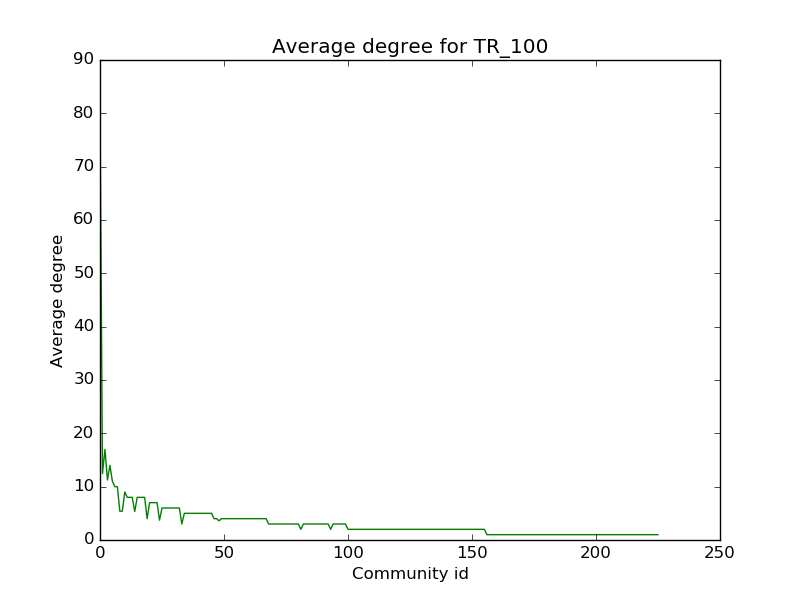
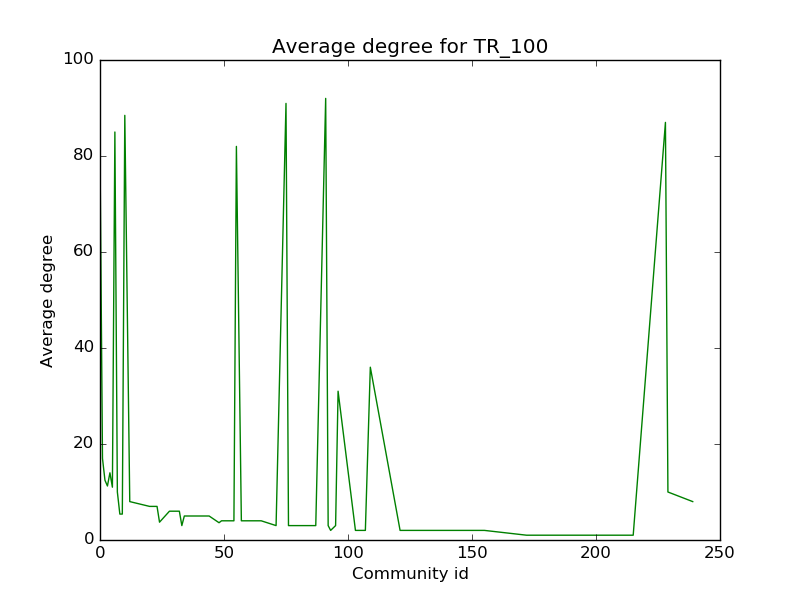
Final version

diff --git a/expandCommunities.py b/expandCommunities.py
@@ -38,29 +38,8 @@ class ArxivAuthorsCommunityExpansion():
 			partitions2nodes[node['partitionId']].append(node.index)
 			nodeIds2clusters[node.index] = node['clusterId']
 
-		# intra partitions augumented edges
-		'''
-		We augument the intra partition edges by uniting the nodes
-		which belong to the same cluster (determined by clustering the articles using the Spherical K-Means algorithm)
-		'''
-		# for partitionId in partitions2nodes:
-			
-		# 	nodesSameClusterPerPartition = list(set([author['nodeId'] for author in authorsInSameCluster]) & set(partitions2nodes[partitionId]))
-
-		# 	if (len(nodesSameClusterPerPartition) > 1):
-		# 		for pair in combinations(nodesSameClusterPerPartition, 2):
-		# 			if ((pair[0], pair[1]) not in edges and (pair[1], pair[0]) not in edges):
-		# 				clusteringEdges.append((helperG.vs[pair[0]]['name'], helperG.vs[pair[1]]['name']))
-
-		# helperG.add_edges(clusteringEdges)
-		# helperG.es[len(edges):]['weight'] = [1] * len(clusteringEdges)
-
-		edges = [edge.tuple for edge in helperG.es]
-
 		# sort the partition dictionary ascending by size
-		partitions2nodes = {k: v for k, v in sorted(partitions2nodes.items(), key = lambda item: len(item[1]))}
-		partitions2nodes = {k: v for k, v in sorted(partitions2nodes.items(), key = lambda item: item[0])}
-
+		partitions2nodes = {k: v for k, v in sorted(partitions2nodes.items(), key = lambda item: len(item[1]), reverse = True)}
 
 		# filter partitions
 		# only partitions which contain all nodes from this cluster
@@ -86,59 +65,51 @@ class ArxivAuthorsCommunityExpansion():
 
 		maxModularity = helperG.modularity(helperG.vs['partitionId'], weights = helperG.es['weight'])
 
-		while (isChange == True):
+		print('Pornesc de la ', maxModularity)
 
-			isChange = False
+		for partitionId1 in list(legitPartitions):
 
-			maxPartition1 = None
-			maxPartition2 = None
+			if (partitionId1 not in legitPartitions):
+				continue
 
-			maxClusteringEdges = []
+			for partitionId2 in list(legitPartitions):
+				
+				if (partitionId1 != partitionId2 and partitionId2 in legitPartitions):
 
-			for partitionId1 in list(legitPartitions):
+					unionEdges = []
+					edges = [edge.tuple for edge in helperG.es]
+					oldUpdatedPartitons = updatedPartitions
 
-				if (partitionId1 not in legitPartitions):
-					continue
+					# merge partitions
+					for nodeId in legitPartitions[partitionId2]:
+						helperG.vs[nodeId]['partitionId'] = partitionId1
+						updatedPartitions[nodeId] = partitionId1
 
-				for partitionId2 in list(legitPartitions):
+					for nodeId1 in legitPartitions[partitionId1]:
+						for nodeId2 in legitPartitions[partitionId2]:
+							if (helperG.vs[nodeId1]['name'], helperG.vs[nodeId2]['name'] not in clusteringEdges and \
+								helperG.vs[nodeId2]['name'], helperG.vs[nodeId1]['name'] not in clusteringEdges):
+									clusteringEdges.append((helperG.vs[nodeId1]['name'], helperG.vs[nodeId2]['name']))
+									unionEdges.append((helperG.vs[nodeId1]['name'], helperG.vs[nodeId2]['name']))
 					
-					if (partitionId1 < partitionId2 and partitionId2 in legitPartitions):
+					helperG.add_edges(unionEdges)
+					helperG.es[len(edges):]['weight'] = [1] * len(unionEdges)
 
-						# merge partitions
-						for nodeId in legitPartitions[partitionId2]:
-							helperG.vs[nodeId]['partitionId'] = partitionId1
+					newModularity = helperG.modularity(helperG.vs['partitionId'], weights = helperG.es['weight'])
 
-						nodeId1 = legitPartitions[partitionId1][randint(0, len(legitPartitions[partitionId1]) - 1)]
-						nodeId2 = legitPartitions[partitionId2][randint(0, len(legitPartitions[partitionId2]) - 1)]
-
-						helperG.add_edge(helperG.vs[nodeId1]['name'], helperG.vs[nodeId2]['name'], weight = 1)
-
-						newModularity = helperG.modularity(helperG.vs['partitionId'], weights = helperG.es['weight'])
-
-						if (newModularity > maxModularity):
-							maxModularity = newModularity
-							maxClusteringEdges = [(helperG.vs[nodeId1]['name'], helperG.vs[nodeId2]['name'])]
-							maxPartition1 = partitionId1
-							maxPartition2 = partitionId2
-
-						helperG.delete_edges([(helperG.vs[nodeId1]['name'], helperG.vs[nodeId2]['name'])])
-						
+					if (newModularity >= maxModularity):
+						# print('Unesc ', len(legitPartitions[partitionId1]), ' cu ', len(legitPartitions[partitionId2]))
+						# print('NEW MODULARITY', newModularity)
+						maxModularity = newModularity
+						legitPartitions[partitionId1] += legitPartitions[partitionId2]
+						del legitPartitions[partitionId2]
+					else:
+						helperG.delete_edges(unionEdges)
+						clusteringEdges = list(set(clusteringEdges) - set(unionEdges))
 						# UNmerge partitions
 						for nodeId in legitPartitions[partitionId2]:
 							helperG.vs[nodeId]['partitionId'] = partitionId2
-
-			if (maxPartition1 != None and maxPartition2 != None):
-				print('MAX MOD = ', maxModularity)
-				isChange = True
-				clusteringEdges += maxClusteringEdges
-				for edge in maxClusteringEdges:
-					helperG.add_edge(edge[0], edge[1], weight = 1)
-				for nodeId in legitPartitions[maxPartition2]:
-					helperG.vs[nodeId]['partitionId'] = partitionId1
-					updatedPartitions[nodeId] = maxPartition1
-				legitPartitions[maxPartition1] += legitPartitions[maxPartition2]
-				del legitPartitions[maxPartition2]
-
+							updatedPartitions[nodeId] = partitionId2
 
 		# print('CLUSTER ID ', clusterId, updatedPartitions)
 
@@ -232,9 +203,9 @@ class ArxivAuthorsCommunityExpansion():
 
 		self.partition = VertexClustering(self.g, self.g.vs['partitionId'])
 
-		plot(self.g)
+		# plot(self.g)
 
-		plot(self.partition)
+		# plot(self.partition)
 
 	def evaluateGraph(self):
 
@@ -246,8 +217,12 @@ class ArxivAuthorsCommunityExpansion():
 		evaluationLib.computeConductance()
 				
 
-print('100 per batch')
+# print('100 per batch')
+# arxivAuthorsEvaluationTE_100 = ArxivAuthorsCommunityExpansion('TE_100', 'ArxivCommunityDetectionDatasets')
+# arxivAuthorsEvaluationTE_100.buildGraph()
+# arxivAuthorsEvaluationTE_100.evaluateGraph()
 
-arxivAuthorsEvaluationTE_100 = ArxivAuthorsCommunityExpansion('TE_100', 'ArxivCommunityDetectionDatasets')
+print('2500 per batch RANDOM')
+arxivAuthorsEvaluationTE_100 = ArxivAuthorsCommunityExpansion('TR_500', 'ArxivCommunityDetectionDatasets')
 arxivAuthorsEvaluationTE_100.buildGraph()
 arxivAuthorsEvaluationTE_100.evaluateGraph()

diff --git a/clustering.py b/clustering.py
@@ -114,7 +114,7 @@ class ArxivAuthorsClustering:
 		skm = spherical_kmeans.SphericalKMeans(n_clusters=5, init='k-means++', n_init=20)
 		skmLabels = skm.fit(X).labels_.tolist()
 
-		# self.writeClusters2DB(skmLabels)
+		self.writeClusters2DB(skmLabels)
 
 		# self.printClusters(skmLabels)
 
@@ -177,7 +177,7 @@ class ArxivAuthorsClustering:
 		client.close()
 
 
-arxivAuthorsClustering = ArxivAuthorsClustering('TE_100', 'ArxivCommunityDetectionDatasets')
+arxivAuthorsClustering = ArxivAuthorsClustering('TE_500', 'ArxivCommunityDetectionDatasets')
 arxivAuthorsClustering.readInformationFromDataset()
 arxivAuthorsClustering.preprocessSummaries()
 arxivAuthorsClustering.clusterSummaries(True)
